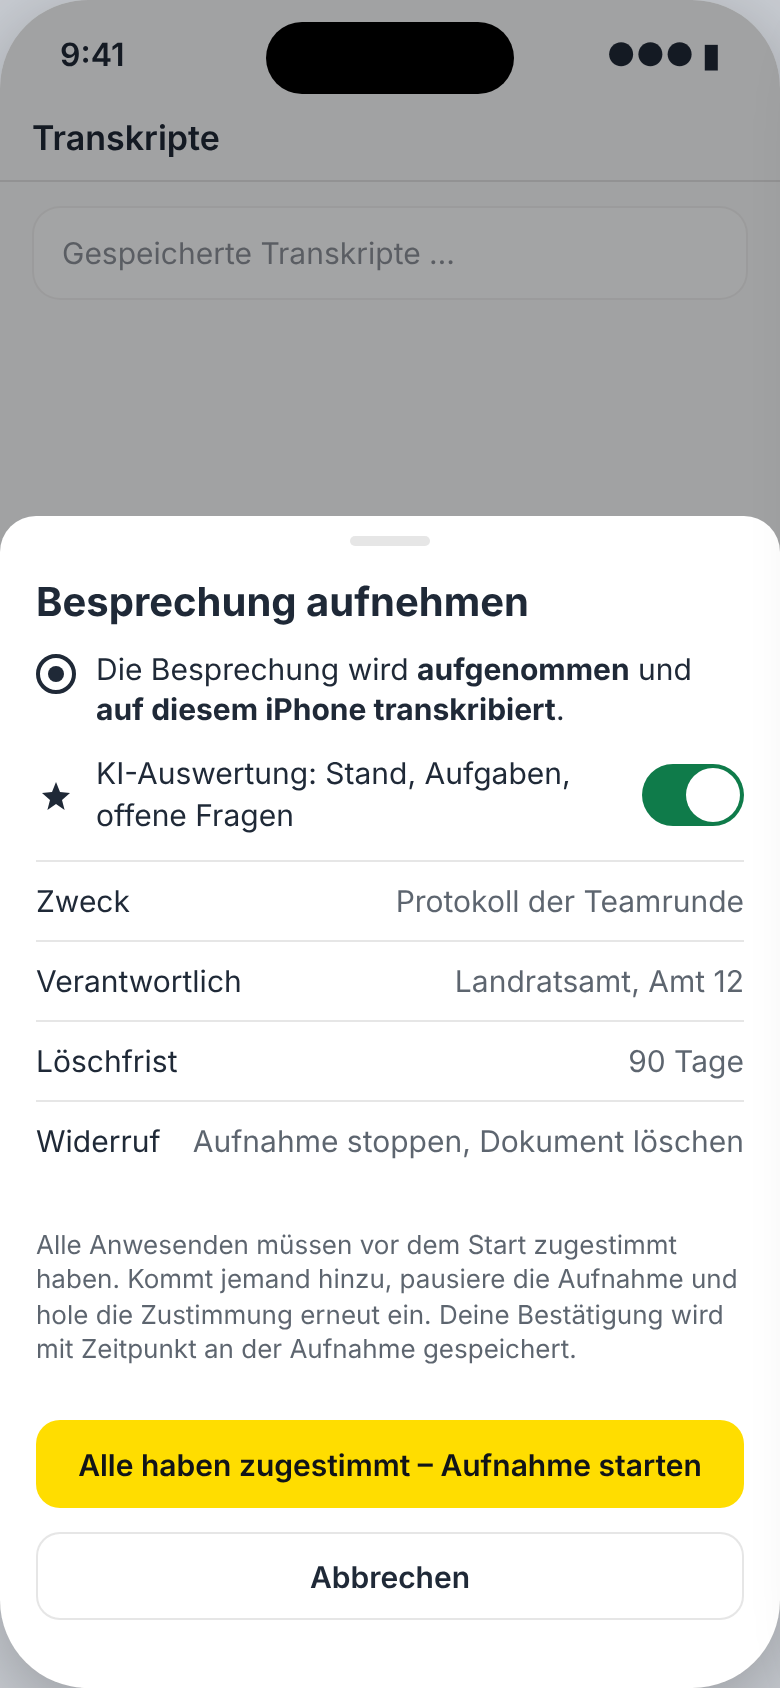
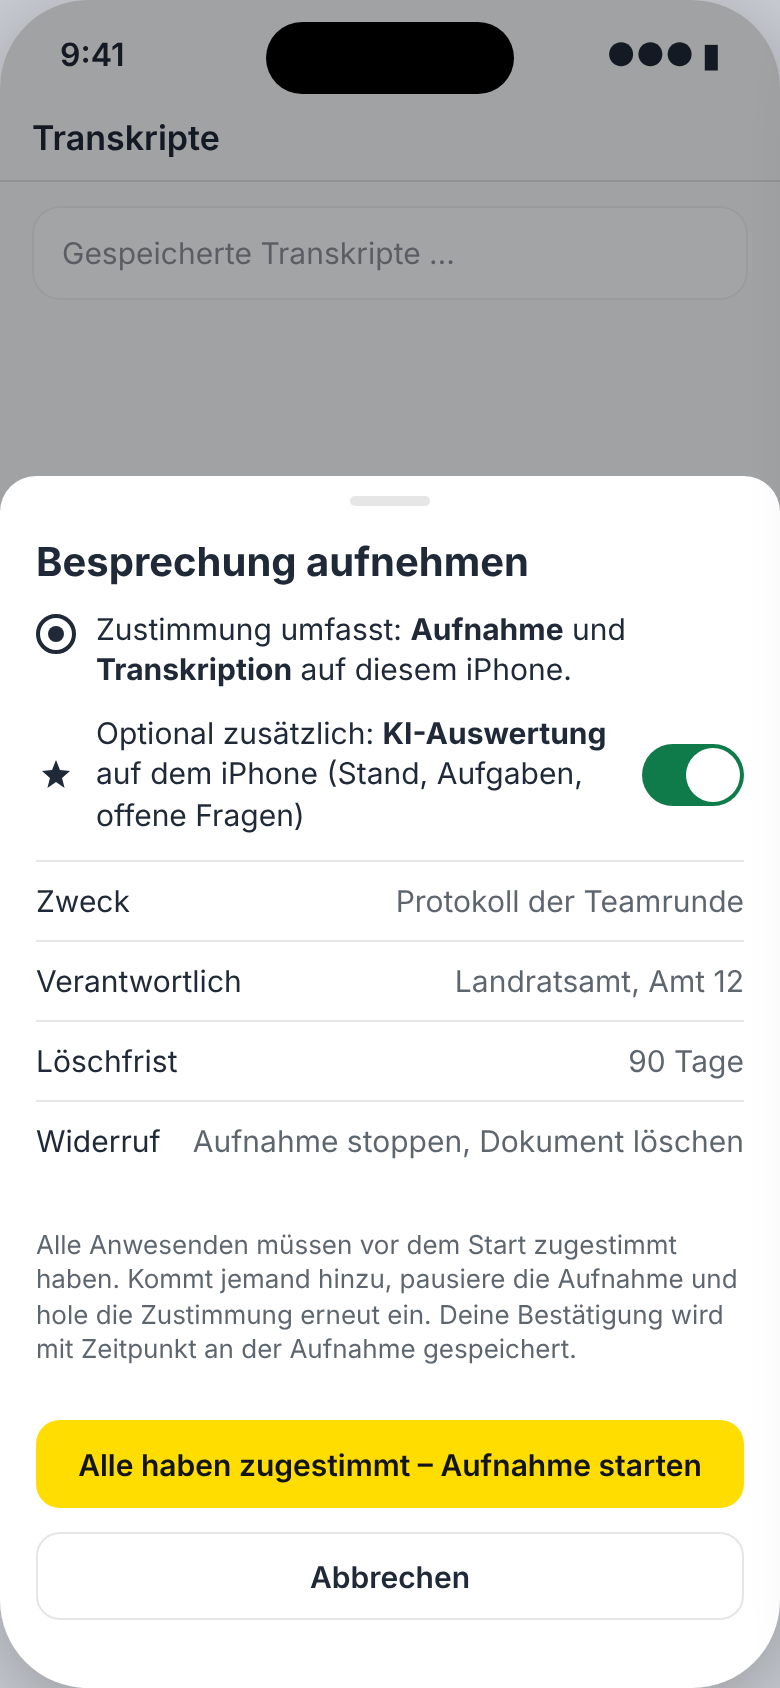
docs: Vorschau iOS-Live nach Codex-Must-fixes (44-pt-Ziele, Belegsprung, Zustimmung aus, Umfang, Watch)
Claude-Session: https://claude.ai/code/session_014pekB148UASuZnkGuiLGLo

Changed region(s): [[0.0, 0.2773, 1.0, 0.4929], [0.8, 0.4313, 0.9538, 0.4929], [0.8308, 0.3697, 0.8615, 0.4005]]

diff --git a/docs/vorschau/ios-live-besprechung/index.html b/docs/vorschau/ios-live-besprechung/index.html
@@ -18,7 +18,7 @@ body{margin:0;background:#C9CDD3;font-family:-apple-system,"SF Pro Text","Segoe 
 .rec{display:inline-flex;align-items:center;gap:6px;font-weight:600;font-variant-numeric:tabular-nums;font-size:15px}
 .dot{width:10px;height:10px;border-radius:50%;background:var(--rec);box-shadow:0 0 0 4px color-mix(in srgb,var(--rec) 25%,transparent)}
 .icon-btn{width:44px;height:44px;display:grid;place-items:center;border-radius:12px;color:var(--text)}
-.body{flex:1;overflow:hidden;padding:12px 16px;display:flex;flex-direction:column;gap:12px}
+.body{flex:1;overflow-y:auto;padding:12px 16px 28px;display:flex;flex-direction:column;gap:12px}
 .seg{display:flex;background:var(--chip);border-radius:10px;padding:3px;flex:none}
 .seg b{flex:1;text-align:center;padding:8px 0;border-radius:8px;font-size:14px;font-weight:600;color:var(--sec)}
 .seg b.on{background:var(--card);color:var(--text);box-shadow:0 1px 3px rgba(0,0,0,.12)}
@@ -30,7 +30,10 @@ body{margin:0;background:#C9CDD3;font-family:-apple-system,"SF Pro Text","Segoe 
 .row:first-of-type{border-top:0;padding-top:0}
 .box{width:22px;height:22px;border:2px solid var(--sec);border-radius:6px;flex:none;margin-top:1px}
 .meta{font-size:13px;color:var(--sec);margin-top:2px;display:flex;gap:8px;flex-wrap:wrap;align-items:center}
-.beleg{font-size:12px;border:1px solid var(--border);border-radius:7px;padding:1px 6px;color:var(--sec);font-variant-numeric:tabular-nums}
+.beleg{min-height:44px;min-width:44px;display:inline-flex;align-items:center;margin:-10px 0}
+.beleg span{font-size:12px;border:1px solid var(--border);border-radius:7px;padding:2px 7px;color:var(--sec);font-variant-numeric:tabular-nums;display:inline-flex;gap:4px;align-items:center}
+.hit{width:44px;height:44px;display:grid;place-items:center;flex:none;margin:-11px -6px -11px -11px}
+.legend{font-size:12px;color:var(--sec);line-height:1.35}
 .chip{display:inline-flex;align-items:center;gap:6px;font-size:12px;font-weight:600;border-radius:999px;padding:4px 10px;background:var(--chip);color:var(--sec)}
 .chip.ai{color:var(--text)}
 .sug{background:var(--sug-bg);border-color:transparent}
@@ -38,12 +41,12 @@ body{margin:0;background:#C9CDD3;font-family:-apple-system,"SF Pro Text","Segoe 
 .tag{font-size:11px;font-weight:700;color:var(--sug);border:1px solid currentColor;border-radius:6px;padding:0 5px}
 .ask{display:flex;gap:8px;margin-top:8px}
 .btn{min-height:44px;border-radius:12px;padding:0 14px;display:inline-flex;align-items:center;justify-content:center;gap:6px;font-weight:600;font-size:15px;border:1px solid var(--border);background:var(--card);color:var(--text)}
-.btn.small{min-height:36px;font-size:14px;padding:0 12px}
+.btn.small{min-height:44px;font-size:14px;padding:0 12px}
 .btn.primary{background:var(--brand);color:var(--on-brand);border-color:transparent}
 .btn.danger{color:var(--rec)}
 .bar{flex:none;border-top:1px solid var(--border);padding:8px 12px 30px;display:grid;grid-template-columns:repeat(4,1fr);gap:6px;background:var(--bg)}
 .bar .t{display:flex;flex-direction:column;align-items:center;gap:3px;font-size:12px;font-weight:500;min-height:52px;justify-content:center;color:var(--text)}
-.bar .stop{width:52px;height:52px;border-radius:50%;background:var(--rec);display:grid;place-items:center}
+.bar .stop{width:44px;height:44px;border-radius:50%;background:var(--rec);display:grid;place-items:center}
 .bar .stop i{width:18px;height:18px;border-radius:4px;background:#fff}
 .tr{font-size:15px;line-height:1.45}
 .tr .sp{font-weight:700;font-size:13px;color:var(--sec);display:block;margin-top:10px}
@@ -59,6 +62,9 @@ body{margin:0;background:#C9CDD3;font-family:-apple-system,"SF Pro Text","Segoe 
 .field{display:flex;justify-content:space-between;gap:12px;padding:10px 0;border-top:1px solid var(--border);font-size:15px}
 .field span:last-child{color:var(--sec);text-align:right}
 .toggle{width:51px;height:31px;border-radius:16px;background:var(--ok);position:relative;flex:none}
+.toggle.off{background:var(--chip);box-shadow:inset 0 0 0 1px var(--border)}
+.toggle.off:after{right:auto;left:2px;box-shadow:0 1px 3px rgba(0,0,0,.25)}
+.btn[aria-disabled=true]{opacity:.4}
 .toggle:after{content:"";position:absolute;right:2px;top:2px;width:27px;height:27px;border-radius:50%;background:#fff}
 .note{font-size:13px;color:var(--sec);line-height:1.35}
 .caption{width:390px;font:600 14px/1.3 system-ui;color:#222;margin:-18px 0 0;text-align:center}
@@ -85,8 +91,8 @@ body{margin:0;background:#C9CDD3;font-family:-apple-system,"SF Pro Text","Segoe 
   <div class="sheet" role="dialog" aria-labelledby="c-t">
     <div class="grab"></div>
     <h2 id="c-t">Besprechung aufnehmen</h2>
-    <div class="li"><svg width="20" height="20" viewBox="0 0 20 20"><circle cx="10" cy="10" r="9" fill="none" stroke="currentColor" stroke-width="2"/><circle cx="10" cy="10" r="4" fill="currentColor"/></svg><span>Die Besprechung wird <b>aufgenommen</b> und <b>auf diesem iPhone transkribiert</b>.</span></div>
-    <div class="li" style="align-items:center"><svg width="20" height="20" viewBox="0 0 20 20"><path d="M10 2l2 5 5 .5-4 3.5 1.3 5L10 13l-4.3 3 1.3-5-4-3.5L8 7z" fill="currentColor"/></svg><span style="flex:1">KI-Auswertung: Stand, Aufgaben, offene Fragen</span><span class="toggle" role="switch" aria-checked="true" aria-label="KI-Auswertung"></span></div>
+    <div class="li"><svg width="20" height="20" viewBox="0 0 20 20"><circle cx="10" cy="10" r="9" fill="none" stroke="currentColor" stroke-width="2"/><circle cx="10" cy="10" r="4" fill="currentColor"/></svg><span>Zustimmung umfasst: <b>Aufnahme</b> und <b>Transkription</b> auf diesem iPhone.</span></div>
+    <div class="li" style="align-items:center"><svg width="20" height="20" viewBox="0 0 20 20"><path d="M10 2l2 5 5 .5-4 3.5 1.3 5L10 13l-4.3 3 1.3-5-4-3.5L8 7z" fill="currentColor"/></svg><span style="flex:1">Optional zusätzlich: <b>KI-Auswertung</b> auf dem iPhone (Stand, Aufgaben, offene Fragen)</span><span class="toggle" role="switch" aria-checked="true" aria-label="KI-Auswertung"></span></div>
     <div>
       <div class="field"><span>Zweck</span><span>Protokoll der Teamrunde</span></div>
       <div class="field"><span>Verantwortlich</span><span>Landratsamt, Amt 12</span></div>
@@ -104,7 +110,7 @@ body{margin:0;background:#C9CDD3;font-family:-apple-system,"SF Pro Text","Segoe 
   <div class="island"></div><div class="status"><span>9:41</span><span>●●● ▮</span></div>
   <div class="nav">
     <span class="rec"><span class="dot" aria-hidden="true"></span>24:13</span>
-    <h1>Teamrunde Haushalt</h1>
+    <h1 title="Teamrunde Haushalt 2027" aria-label="Teamrunde Haushalt 2027">Teamrunde Haushalt 2027</h1>
     <span class="chip ai" title="Letzte Auswertung vor 40 s">KI · vor 40 s</span>
   </div>
   <div class="body">
@@ -112,29 +118,32 @@ body{margin:0;background:#C9CDD3;font-family:-apple-system,"SF Pro Text","Segoe 
     <div class="card">
       <p class="h">Aktueller Stand</p>
       <p class="p">Der Haushaltsantrag 2027 wird bis Freitag eingereicht. Herr Berger stimmt die Zahlen mit der Kämmerei ab. Offen ist die Beteiligung des Personalrats.</p>
+      <div class="meta" style="margin-top:6px"><span>Belege</span><span class="beleg" role="button" aria-label="Zur Stelle 07:40"><span>≡ 07:40</span></span><span class="beleg" role="button" aria-label="Zur Stelle 08:12"><span>≡ 08:12</span></span><span class="beleg" role="button" aria-label="Zur Stelle 23:51"><span>≡ 23:51</span></span></div>
     </div>
     <div class="card">
       <p class="h">Aufgaben <span class="n">2</span></p>
-      <div class="row"><span class="box" role="checkbox" aria-checked="false" aria-label="Erledigt"></span><div><div class="p">Abstimmung mit der Kämmerei</div><div class="meta"><span>Herr Berger</span><span class="beleg">▶ 08:12</span></div></div></div>
-      <div class="row"><span class="box" role="checkbox" aria-checked="false" aria-label="Erledigt"></span><div><div class="p">Haushaltsantrag einreichen</div><div class="meta"><span>bis Freitag</span><span class="beleg">▶ 07:40</span></div></div></div>
+      <div class="row"><span class="hit" role="checkbox" aria-checked="false" aria-label="Als erledigt abhaken"><span class="box"></span></span><div><div class="p">Abstimmung mit der Kämmerei</div><div class="meta"><span>Herr Berger</span><span class="beleg" role="button" aria-label="Zur Stelle 08:12 im Transkript"><span>≡ 08:12</span></span></div></div></div>
+      <div class="row"><span class="hit" role="checkbox" aria-checked="false" aria-label="Als erledigt abhaken"><span class="box"></span></span><div><div class="p">Haushaltsantrag einreichen</div><div class="meta"><span>bis Freitag</span><span class="beleg" role="button" aria-label="Zur Stelle 07:40 im Transkript"><span>≡ 07:40</span></span></div></div></div>
     </div>
     <div class="card">
       <p class="h">Offene Punkte <span class="n">2</span></p>
       <div class="row"><div style="flex:1"><div class="p">Muss der Personalrat beteiligt werden?</div>
-        <div class="meta"><span style="color:var(--warn);font-weight:600">Beantwortet?</span><span class="beleg">▶ 23:51</span></div>
+        <div class="meta"><span style="color:var(--warn);font-weight:600">Beantwortet?</span><span class="beleg" role="button" aria-label="Zur Stelle 23:51 im Transkript"><span>≡ 23:51</span></span></div>
         <div class="ask"><span class="btn small">Ja, abschließen</span><span class="btn small">Noch offen</span></div></div></div>
-      <div class="row"><div><div class="p">Wer übernimmt die Vertretung im Januar?</div><div class="meta"><span class="beleg">▶ 18:05</span></div></div></div>
+      <div class="row"><div><div class="p">Wer übernimmt die Vertretung im Januar?</div><div class="meta"><span class="beleg" role="button" aria-label="Zur Stelle 18:05 im Transkript"><span>≡ 18:05</span></span></div></div></div>
     </div>
     <div class="card sug">
       <p class="h">Jetzt ansprechen? <span class="tag">Vorschlag der KI</span></p>
       <div class="p">Bis wann braucht die Kämmerei die Zahlen?</div>
+      <div class="meta"><span>Anlass</span><span class="beleg" role="button" aria-label="Zur Stelle 08:12"><span>≡ 08:12</span></span></div>
     </div>
+    <p class="legend">≡ 08:12 springt ins Transkript und hebt die Stelle hervor; dort spielt ▶ die Passage ab.</p>
   </div>
   <div class="bar">
     <span class="t"><svg width="22" height="22" viewBox="0 0 22 22"><rect x="5" y="4" width="4" height="14" rx="1" fill="currentColor"/><rect x="13" y="4" width="4" height="14" rx="1" fill="currentColor"/></svg>Pause</span>
     <span class="t"><svg width="22" height="22" viewBox="0 0 22 22"><circle cx="9" cy="7" r="4" fill="none" stroke="currentColor" stroke-width="2"/><path d="M2 19c1-4 4-6 7-6s6 2 7 6M18 6v6M15 9h6" fill="none" stroke="currentColor" stroke-width="2" stroke-linecap="round"/></svg>Person kommt</span>
     <span class="t"><svg width="22" height="22" viewBox="0 0 22 22"><path d="M5 3h9l4 4v12H5z" fill="none" stroke="currentColor" stroke-width="2" stroke-linejoin="round"/><path d="M8 11h7M8 15h5" stroke="currentColor" stroke-width="2" stroke-linecap="round"/></svg>Notiz</span>
-    <span class="t"><span class="stop" role="button" aria-label="Aufnahme beenden"><i></i></span></span>
+    <span class="t"><span class="stop" role="button" aria-label="Aufnahme beenden"><i></i></span>Beenden</span>
   </div>
 </section><p class="caption">2 · Live: Stand, Aufgaben, offene Punkte, Vorschlag</p></div>
 
@@ -143,16 +152,17 @@ body{margin:0;background:#C9CDD3;font-family:-apple-system,"SF Pro Text","Segoe 
   <div class="island"></div><div class="status"><span>9:41</span><span>●●● ▮</span></div>
   <div class="nav">
     <span class="rec"><span class="dot" aria-hidden="true"></span>24:13</span>
-    <h1>Teamrunde Haushalt</h1>
-    <span class="chip">KI pausiert (Wärme)</span>
+    <h1 title="Teamrunde Haushalt 2027" aria-label="Teamrunde Haushalt 2027">Teamrunde Haushalt 2027</h1>
+    <span class="chip" style="color:var(--warn)">KI pausiert</span>
   </div>
   <div class="body">
     <div class="seg" role="tablist"><b role="tab">Stand</b><b class="on" role="tab" aria-selected="true">Transkript</b><b role="tab">Notizen</b></div>
+    <div class="card" style="padding:8px 12px;font-size:14px;display:flex;gap:8px;align-items:center"><span style="color:var(--warn);font-weight:700">KI pausiert – iPhone zu warm.</span><span style="color:var(--sec)">Aufnahme und Transkript laufen weiter.</span></div>
     <div class="tr">
       <span class="sp">Sprecher 1<span class="ts">07:40</span></span>
       Wir müssen den Haushaltsantrag bis Freitag einreichen.
       <span class="sp">Sprecher 1<span class="ts">08:12</span></span>
-      <span class="mark">Herr Berger übernimmt die Abstimmung mit der Kämmerei.</span>
+      <span class="mark">▶ Herr Berger übernimmt die Abstimmung mit der Kämmerei.</span>
       <span class="sp">Sprecher 2<span class="ts">18:05</span></span>
       Wer übernimmt eigentlich im Januar die Vertretung?
       <span class="sp">Sprecher 3<span class="ts">23:51</span></span>
@@ -166,7 +176,7 @@ body{margin:0;background:#C9CDD3;font-family:-apple-system,"SF Pro Text","Segoe 
     <span class="t"><svg width="22" height="22" viewBox="0 0 22 22"><rect x="5" y="4" width="4" height="14" rx="1" fill="currentColor"/><rect x="13" y="4" width="4" height="14" rx="1" fill="currentColor"/></svg>Pause</span>
     <span class="t"><svg width="22" height="22" viewBox="0 0 22 22"><circle cx="9" cy="7" r="4" fill="none" stroke="currentColor" stroke-width="2"/><path d="M2 19c1-4 4-6 7-6s6 2 7 6M18 6v6M15 9h6" fill="none" stroke="currentColor" stroke-width="2" stroke-linecap="round"/></svg>Person kommt</span>
     <span class="t"><svg width="22" height="22" viewBox="0 0 22 22"><path d="M5 3h9l4 4v12H5z" fill="none" stroke="currentColor" stroke-width="2" stroke-linejoin="round"/><path d="M8 11h7M8 15h5" stroke="currentColor" stroke-width="2" stroke-linecap="round"/></svg>Notiz</span>
-    <span class="t"><span class="stop" role="button" aria-label="Aufnahme beenden"><i></i></span></span>
+    <span class="t"><span class="stop" role="button" aria-label="Aufnahme beenden"><i></i></span>Beenden</span>
   </div>
 </section><p class="caption">3 · Live-Transkript, markierter Beleg, KI pausiert</p></div>
 
@@ -180,9 +190,10 @@ body{margin:0;background:#C9CDD3;font-family:-apple-system,"SF Pro Text","Segoe 
     <div class="grab"></div>
     <h2>An Local Voice übergeben</h2>
     <div class="card" style="display:flex;gap:12px;align-items:center"><svg width="36" height="36" viewBox="0 0 36 36"><rect width="36" height="36" rx="9" fill="#FFDD00"/><path d="M10 18h2M14 13v10M18 9v18M22 13v10M26 18h2" stroke="#111418" stroke-width="2.4" stroke-linecap="round"/></svg><div><div class="p" style="font-weight:600">Neue Aufnahme 3.m4a</div><div class="meta">41:07 · 9,6 MB · von Apple Watch</div></div></div>
-    <div class="li" style="align-items:center"><span class="toggle" role="switch" aria-checked="true" aria-label="Zustimmung bestätigt"></span><span>Die Aufnahme erfolgte mit Zustimmung aller Beteiligten.</span></div>
+    <div class="li" style="align-items:center"><span class="toggle off" role="switch" aria-checked="false" aria-label="Zustimmung bestätigen"></span><span>Die Aufnahme erfolgte mit Zustimmung aller Beteiligten.</span></div>
     <p class="note">Wird auf dem iPhone transkribiert und ausgewertet, ohne Internet. Zweck, Verantwortlicher und Löschfrist aus den Einstellungen (Protokoll · Amt 12 · 90 Tage).</p>
-    <span class="btn primary">Übernehmen und transkribieren</span>
+    <span class="btn primary" aria-disabled="true">Übernehmen und transkribieren</span>
+    <p class="note" style="margin:-4px 0 0;text-align:center">Erst nach Bestätigung möglich.</p>
     <span class="btn">Abbrechen</span>
   </div>
 </section><p class="caption">4 · Teilen-Menü (Sprachmemos, Dateien)</p></div>
@@ -193,9 +204,9 @@ body{margin:0;background:#C9CDD3;font-family:-apple-system,"SF Pro Text","Segoe 
   <div style="text-align:center;margin-top:30px"><div style="font-size:18px;font-weight:600;opacity:.85">Dienstag, 4. November</div><div style="font-size:88px;font-weight:700;letter-spacing:-2px;line-height:1">9:41</div></div>
   <div style="flex:1"></div>
   <div class="la" style="margin-bottom:120px">
-    <div style="display:flex;align-items:center;gap:10px"><span class="dot"></span><b style="flex:1">Teamrunde Haushalt</b><span style="font-variant-numeric:tabular-nums;font-weight:600">24:13</span></div>
+    <div style="display:flex;align-items:center;gap:10px"><span class="dot"></span><b style="flex:1">Besprechung</b><span style="font-variant-numeric:tabular-nums;font-weight:600">24:13</span></div>
     <div style="font-size:14px;opacity:.85">Aufnahme und Transkript laufen · KI holt nach dem Entsperren auf</div>
-    <div style="display:flex;gap:8px;font-size:13px"><span class="chip" style="background:#333;color:#eee">2 Aufgaben</span><span class="chip" style="background:#333;color:#eee">2 offen</span></div>
+    <div style="font-size:12px;opacity:.7">Titel und Zahlen ausgeblendet (Einstellung „Sperrbildschirm: Details zeigen“, Vorgabe aus)</div>
   </div>
 </section><p class="caption">5 · Live-Aktivität bei gesperrtem iPhone</p></div>
 
@@ -203,8 +214,8 @@ body{margin:0;background:#C9CDD3;font-family:-apple-system,"SF Pro Text","Segoe 
 <div class="wrap" style="width:390px"><div style="display:flex;gap:18px;padding-top:120px">
   <section class="watch" id="v6a">
     <div class="top"><span>Besprechung</span><span>9:41</span></div>
-    <div class="sub" style="color:#fff;font-size:15px;line-height:1.3">Alle Anwesenden haben der Aufnahme zugestimmt?</div>
-    <div class="sub">Aufnahme, Transkript und KI-Auswertung am iPhone.</div>
+    <div class="sub" style="color:#fff;font-size:14px;line-height:1.25">Alle stimmen Aufnahme und Transkription zu?</div>
+    <div class="sub" style="font-size:12px">„Ja“ startet die Aufnahme auf der Uhr. Transkript am iPhone; KI nur, wenn dort aktiviert.</div>
     <div class="wb"><b>Nein</b><b style="background:#FFDD00;color:#111">Ja</b></div>
   </section>
   <section class="watch" id="v6b">
